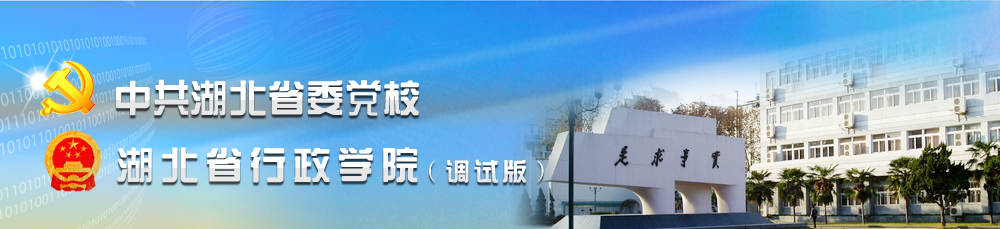
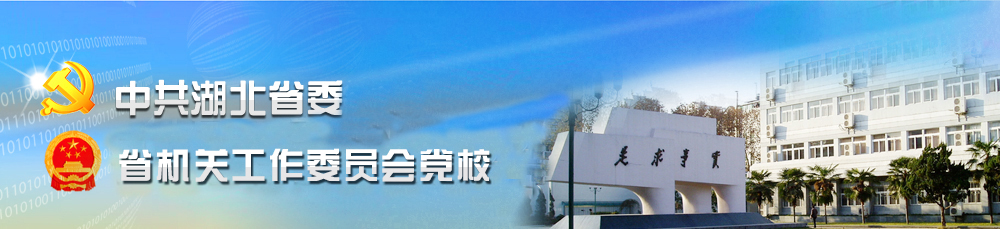
ggtp

Changed region(s): [[0.093, 0.3362, 0.589, 0.8559], [0.217, 0.5197, 0.248, 0.5502], [0.124, 0.5197, 0.155, 0.5502]]

diff --git a/index.html b/index.html
@@ -2,7 +2,7 @@
 <html lang="en">
 <head>
     <meta charset="UTF-8">
-    <title>中共湖北省委党校</title>
+    <title>中共湖北省委省直机关工作委员会党校</title>
     <link rel="stylesheet" type="text/css" href="rsc/css/location.css"/>
     <link rel="stylesheet" type="text/css" href="rsc/css/skins/default-skins.css"/>
     <link rel="stylesheet" type="text/css" href="rsc/css/skins/blue-skins.css"/>
